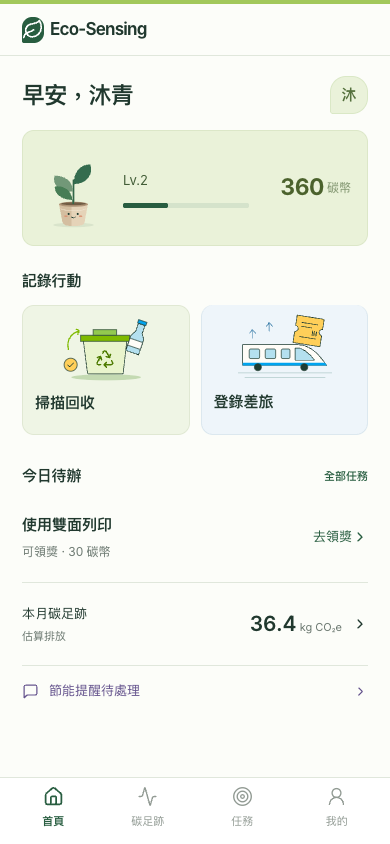
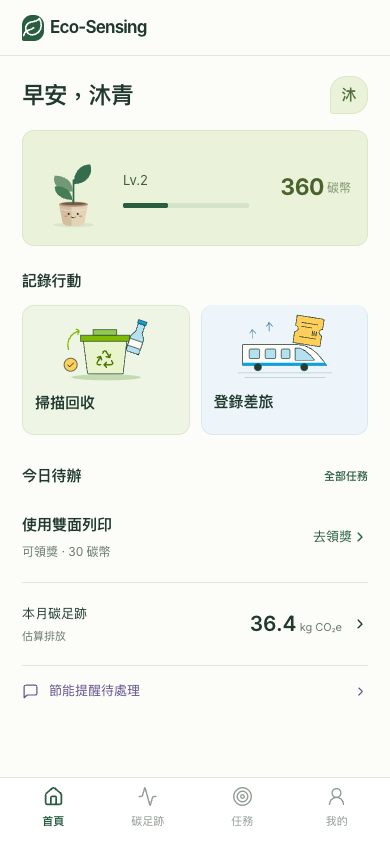
feat: 更新員工界面，新增魔王受擊動畫及減少動態效果的選項

Changed region(s): [[0.0, 0.0, 1.0, 0.0616]]

diff --git a/src/styles/employee-ux.css b/src/styles/employee-ux.css
@@ -12,6 +12,10 @@
 }
 .employee-ux .employee-header {
   height: 56px;
+  border-top: 0;
+  background: #fcfdf9;
+  backdrop-filter: none;
+  box-shadow: none;
 }
 .employee-ux .employee-main {
   padding: 20px 22px 28px;
@@ -801,5 +805,81 @@
   }
   .employee-ux .profile-classic .profile-growth h3 {
     font-size: 13px;
+  }
+}
+
+/* One brief reaction per newly claimed reward; no idle animation. */
+.employee-ux .boss-art.is-hit {
+  animation: boss-impact 580ms ease-out both;
+  transform-origin: 50% 65%;
+}
+.employee-ux .boss-damage {
+  position: absolute;
+  right: 28px;
+  top: 96px;
+  z-index: 2;
+  pointer-events: none;
+  color: #925436;
+  background: #fff9ed;
+  border-radius: 6px;
+  padding: 3px 7px;
+  font-size: 12px;
+  font-weight: 650;
+  font-variant-numeric: tabular-nums;
+  animation: boss-damage-rise 650ms ease-out both;
+}
+@keyframes boss-impact {
+  0%,
+  100% {
+    transform: translateX(0) rotate(0);
+    opacity: 0.85;
+    filter: brightness(1);
+  }
+  15% {
+    transform: translateX(-5px) rotate(-5deg);
+    opacity: 0.55;
+    filter: brightness(1.3);
+  }
+  30% {
+    transform: translateX(5px) rotate(5deg);
+    opacity: 1;
+    filter: brightness(1);
+  }
+  45% {
+    transform: translateX(-4px) rotate(-3deg);
+    opacity: 0.6;
+    filter: brightness(1.3);
+  }
+  65% {
+    transform: translateX(3px) rotate(2deg);
+    opacity: 1;
+    filter: brightness(1);
+  }
+  82% {
+    transform: translateX(-1px) rotate(-1deg);
+  }
+}
+@keyframes boss-damage-rise {
+  0% {
+    opacity: 0;
+    transform: translateY(6px);
+  }
+  20% {
+    opacity: 1;
+  }
+  75% {
+    opacity: 1;
+  }
+  100% {
+    opacity: 0;
+    transform: translateY(-15px);
+  }
+}
+@media (prefers-reduced-motion: reduce) {
+  .employee-ux .boss-art.is-hit {
+    animation: none;
+  }
+  .employee-ux .boss-damage {
+    display: none;
   }
 }

diff --git a/src/components/experience/Growth.tsx b/src/components/experience/Growth.tsx
@@ -52,6 +52,20 @@ export function GrowthCard({ compact = false }: { compact?: boolean }) {
 export function BossChallenge() {
   const { state } = useDemo();
   const g = growth(state);
+  const previous = useRef({ claimed: g.claimed, hp: g.hp });
+  const sequence = useRef(0);
+  const [hit, setHit] = useState<{ id: number; damage: number } | null>(null);
+  useEffect(() => {
+    const before = previous.current;
+    previous.current = { claimed: g.claimed, hp: g.hp };
+    if (g.claimed <= before.claimed || g.hp >= before.hp) {
+      setHit(null);
+      return;
+    }
+    setHit({ id: ++sequence.current, damage: before.hp - g.hp });
+    const timer = setTimeout(() => setHit(null), 650);
+    return () => clearTimeout(timer);
+  }, [g.claimed, g.hp]);
   return (
     <section className="boss-challenge" aria-label="碳魔王挑戰">
       <div>
@@ -76,7 +90,16 @@ export function BossChallenge() {
           {g.claimed} / {g.total} 項獎勵已領取 · 遊戲進度，不抵銷排放
         </small>
       </div>
-      <BossIllustration defeated={g.hp === 0} />
+      <BossIllustration
+        key={`boss-${hit?.id ?? 0}`}
+        defeated={g.hp === 0}
+        className={hit ? "is-hit" : ""}
+      />
+      {hit && (
+        <span key={`damage-${hit.id}`} className="boss-damage" aria-hidden="true">
+          −{hit.damage} HP
+        </span>
+      )}
     </section>
   );
 }

diff --git a/src/components/experience/Illustrations.tsx b/src/components/experience/Illustrations.tsx
@@ -85,11 +85,17 @@ export function PlantIllustration({
     </svg>
   );
 }
-export function BossIllustration({ defeated = false }: { defeated?: boolean }) {
+export function BossIllustration({
+  defeated = false,
+  className = "",
+}: {
+  defeated?: boolean;
+  className?: string;
+}) {
   return (
     <svg
       viewBox="0 0 240 210"
-      className={`boss-art ${defeated ? "defeated" : ""}`}
+      className={`boss-art ${defeated ? "defeated" : ""} ${className}`}
       aria-hidden="true"
     >
       <ellipse cx="120" cy="190" rx="78" ry="9" fill="#223a40" opacity=".08" />

diff --git a/src/app/Layouts.tsx b/src/app/Layouts.tsx
@@ -233,6 +233,14 @@ export function AdminLayout() {
 export function EmployeeLayout() {
   const location = useLocation();
   const focused = /\/(travel-scan|trash-scan)$/.test(location.pathname);
+  useEffect(() => {
+    const theme = document.querySelector('meta[name="theme-color"]');
+    const previous = theme?.getAttribute("content");
+    theme?.setAttribute("content", "#fcfdf9");
+    return () => {
+      if (previous) theme?.setAttribute("content", previous);
+    };
+  }, []);
   useRouteReset();
   return (
     <div

diff --git a/src/styles/story.css b/src/styles/story.css
@@ -406,7 +406,6 @@
   background: #fcfdf9;
 }
 .employee-header {
-  border-top: 4px solid #a2c85c;
   background: #fcfdf9;
 }
 .employee-main {

diff --git a/docs/DESIGN_SYSTEM.md b/docs/DESIGN_SYSTEM.md
@@ -24,11 +24,11 @@
 
 ## 動態效果
 
-「播放行動場景」會依序呈現列車移動、提醒卡出現與植物成長，約 5 秒結束，可重播。不自動加入事件或發獎。領獎仍只播放一次既有植物成長效果。沒有持續漂浮、倒數提交或遮住內容的入場淡入。`prefers-reduced-motion: reduce` 關閉上述動態與轉場。
+「播放行動場景」會依序呈現列車移動、提醒卡出現與植物成長，約 5 秒結束，可重播。不自動加入事件或發獎。領獎時植物成長一次，任務頁的碳魔王短暫震動、明暗閃動，並顯示本次實際扣除的 HP，650ms 後結束；重新進頁不重播。沒有持續漂浮、倒數提交或遮住內容的入場淡入。`prefers-reduced-motion: reduce` 關閉上述動態與轉場。
 
 ## 版面與操作
 
-- 員工端手機優先：固定底部導覽、可單手操作的掃描入口；花盆是首頁焦點。320px 保持無橫向溢出。
+- 員工端頂部使用不透明暖白背景，不使用色條、模糊或陰影；手機瀏覽器主題色跟隨頁面背景。員工端手機優先：固定底部導覽、可單手操作的掃描入口；花盆是首頁焦點。320px 保持無橫向溢出。
 - 企業端桌面優先：左側固定導覽、中性表格、單一主 KPI 與動態洞察。平板與手機使用收合導覽。
 - 所有原有路由、篩選、登錄、領獎、審核、列印與本機資料重設保留。
 - `/guide` 為行動導覽主入口；`/demo` 保留舊連結相容。旅程只改變呈現層，不自動清除原有活動。
